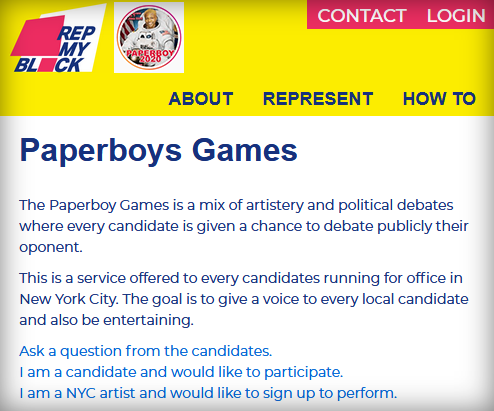
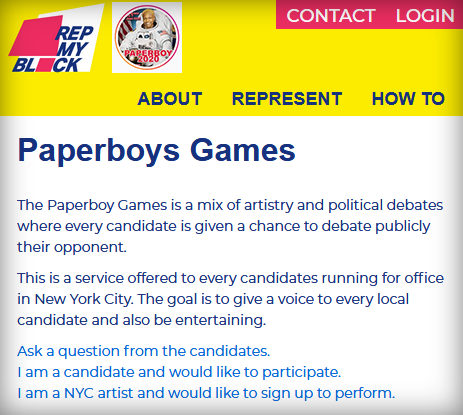
Fixed a mispelling

diff --git a/www/htdocs/paperboygames/index.php b/www/htdocs/paperboygames/index.php
@@ -11,8 +11,8 @@
 			<BR>
 			
 	<P>
-		The Paperboy Games is a mix of artistery and political debates where every candidate is given a
-		chance to debate publicly their oponent.
+		The Paperboy Games is a mix of artistry and political debates where every candidate is given a
+		chance to debate publicly their opponent.
 	</P>
 			
 	<P>
